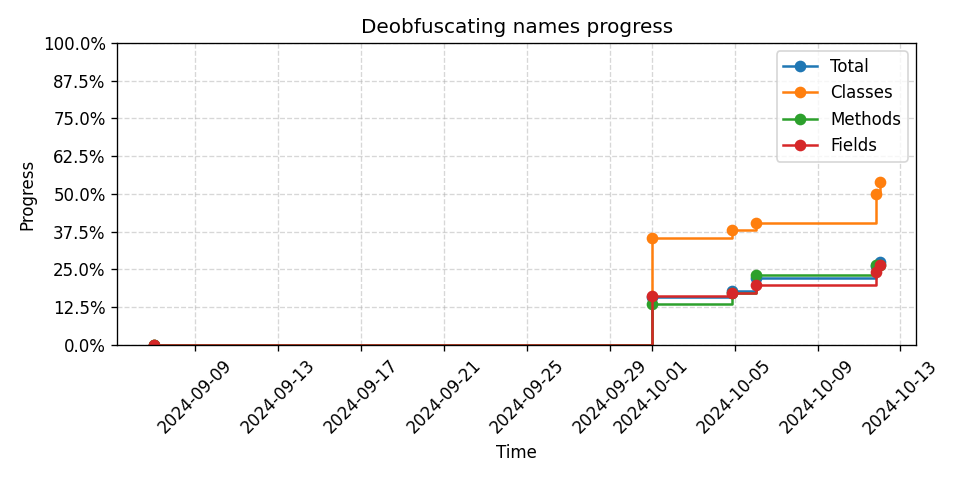
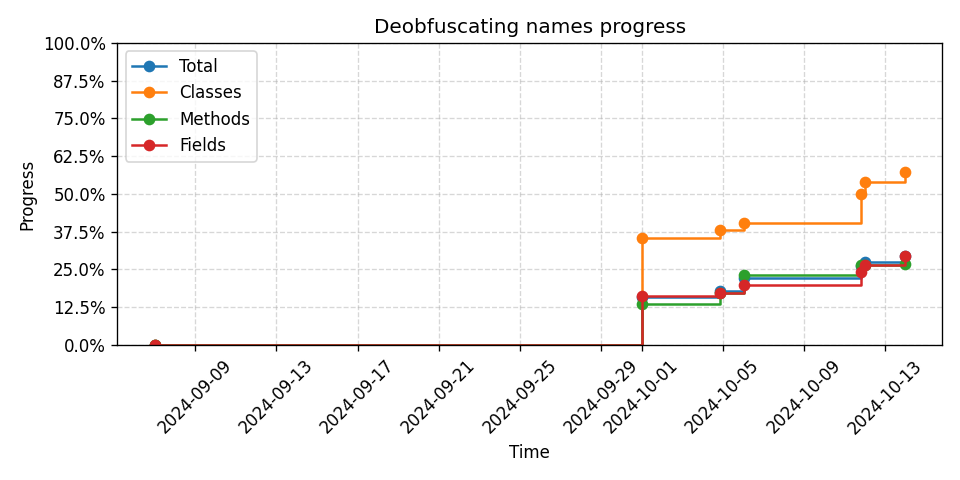
readme and log chart

diff --git a/extras/logger/logger.py b/extras/logger/logger.py
@@ -38,7 +38,7 @@ def plot_and_save():
     plt.xlabel("Time")
     plt.ylabel("Progress")
     plt.title("Deobfuscating names progress")
-    plt.legend()
+    plt.legend(loc='upper left')
     plt.ylim(0, 100)
     plt.yticks([i / 2 for i in range(0, 202, 25)], [f'{i/2}%' for i in range(0, 202, 25)])
     plt.xticks(rotation=45)
